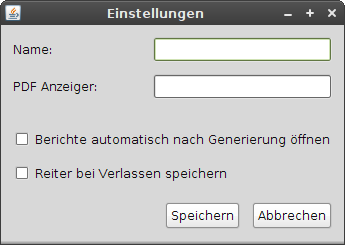
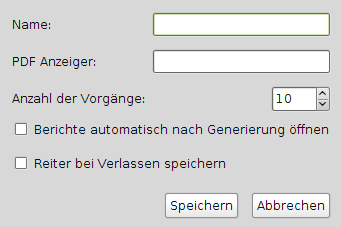
Update gui prototype section

diff --git a/docs/Specification.tex b/docs/Specification.tex
@@ -680,11 +680,14 @@ Hauptunterschied sind dabei die dort dargestellten Daten und Formulare.
 Nach einem Klick auf Stammdatenverwaltung $\rightarrow$ Veranstaltungen
 wird die Hauptansicht der Stammdatenverwaltung angezeigt. Diese besteht
 aus einer Toolbar am oberen Rand und einer tabellarischen Darstellung
-aller vorhandenen Daten. Zu Beginn ist die Tabelle auf einige wichtige
+aller vorhandenen Daten. Zudem gibt es dazwischen noch ein Suchfeld. 
+Zu Beginn ist die Tabelle auf einige wichtige
 Spalten beschränkt. Über ein Kontextmenü können jedoch alle verfügbaren
 Daten in der Tabelle angezeigt werden um einen breiten Bildschirm
 voll auszunützen. \\
- In der Toolbar befinden sich die Buttons {}``Anzeigen'' zum
+Die Suche aktualisiert die Tabelle sobald der erste Buchstabe eingegeben wurde
+automatisch und ohne das ein Knopf gedrückt werden muss.\\
+In der Toolbar befinden sich die Buttons {}``Anzeigen'' zum
 Anzeigen der Details des momentan ausgewählten Tabelleneintrags, {}``Bearbeiten''
 um die ausgewählte Veranstaltung zu verändern, {}``Hinzufügen''
 um eine neue Veranstaltung hinzuzufügen, {}``Entfernen'' um die
@@ -759,11 +762,36 @@ durch eine Fehlermeldung darauf hingewiesen. \\
 
 \section{Beschäftigungen}
 
+\includegraphics{MockupBuchungen.png}
+
+Bei den Beschäftigungen wird die von der Stammdatenhauptansicht bekannte Form benutzt.
+Das heisst das sich am oberen Rand eine Toolbar befindet in der es die Funktionen
+``Anzeigen'', ``Bearbeiten'', ``Hinzufügen'' und ``Entfernen'' gibt. Darunter
+befindet sich ein Eingabefeld das zur Suche in der Tabelle dient und letztendlich
+die Tabelle in der die Daten dargestellt werden.\\
+Die Suche aktualisiert die Tabelle sobald der erste Buchstabe eingegeben wurde
+automatisch und benötigt keinen Suchknopf.\\
+
+Die Ansichten zum Anzeigen, Bearbeiten, Hinzufügen und Entfernen sind größtenteils
+Äquivalent zu ihren Gegenübern in der Stammdatenverwaltung. \\
+
+\subsection{Anzeigen}
+
+Die normale ``Anzeigen''-Ansicht der Stammdatenverwaltug wird noch um Verweise
+auf die Hilfskraft und die Veranstaltung erweitert um schnell an wichtige Informationen
+zu kommen. Zudem werden hier alle wichtigen Vertragsdetails angezeigt.
+
+\subsection{Bearbeiten und Hinzufügen}
+
+Hier können die Veranstaltungen und Hilfskräfte einfach per Combobox aus den bereits
+vorhandenen ausgesucht werden sowie über Verweise auf die entsprechenden Ansichten
+schnell hinzugefügt werden.
+
 \section{Vorgänge}
 
 \includegraphics{MockupVorgaenge.png}
 
-Die ``Vorgänge''-Ansicht ist ähnlich wie die Stammdatenhauptansicht aufgebaut.
+Die ``Vorgänge''-Ansicht ist ebenfalls ähnlich wie die Stammdatenhauptansicht aufgebaut.
 Am oberen Rand befindet sich eine Toolbar mit 4 Knöpfen ``Anzeigen'', ``Bearbeiten'',
 ``Hinzufügen'' und ``Entfernen''. Darunter befindet sich ein Suchfeld und letztendlich
 die Tabelle mit allen Vorgängen, standardmäßig sortiert nach dem Zeitpunkt des
@@ -848,6 +876,9 @@ werden.
 \item \textbf{PDF-Anzeiger} \\
  Pfad zu einem Programm das PDFs anzeigen kann. Der Pfad zur PDF-Datei
 wird hierbei als Argument für das Programm übergeben. 
+\item \textbf{Anzahl der Vorgänge}\\
+Die Anzahl der Vorgänge die in Detailansichten wie zum Beispiel bei den Stammdaten
+von Hilfskräften angezeigt werden sollen.
 \item \textbf{Berichte automatisch nach Generierung öffnen} \\
  Wenn aktiviert öffnen sich Berichte direkt nach ihrer Generierung
 automatisch im unter {}``PDF-Anzeiger'' angegeben PDF-Programm oder
